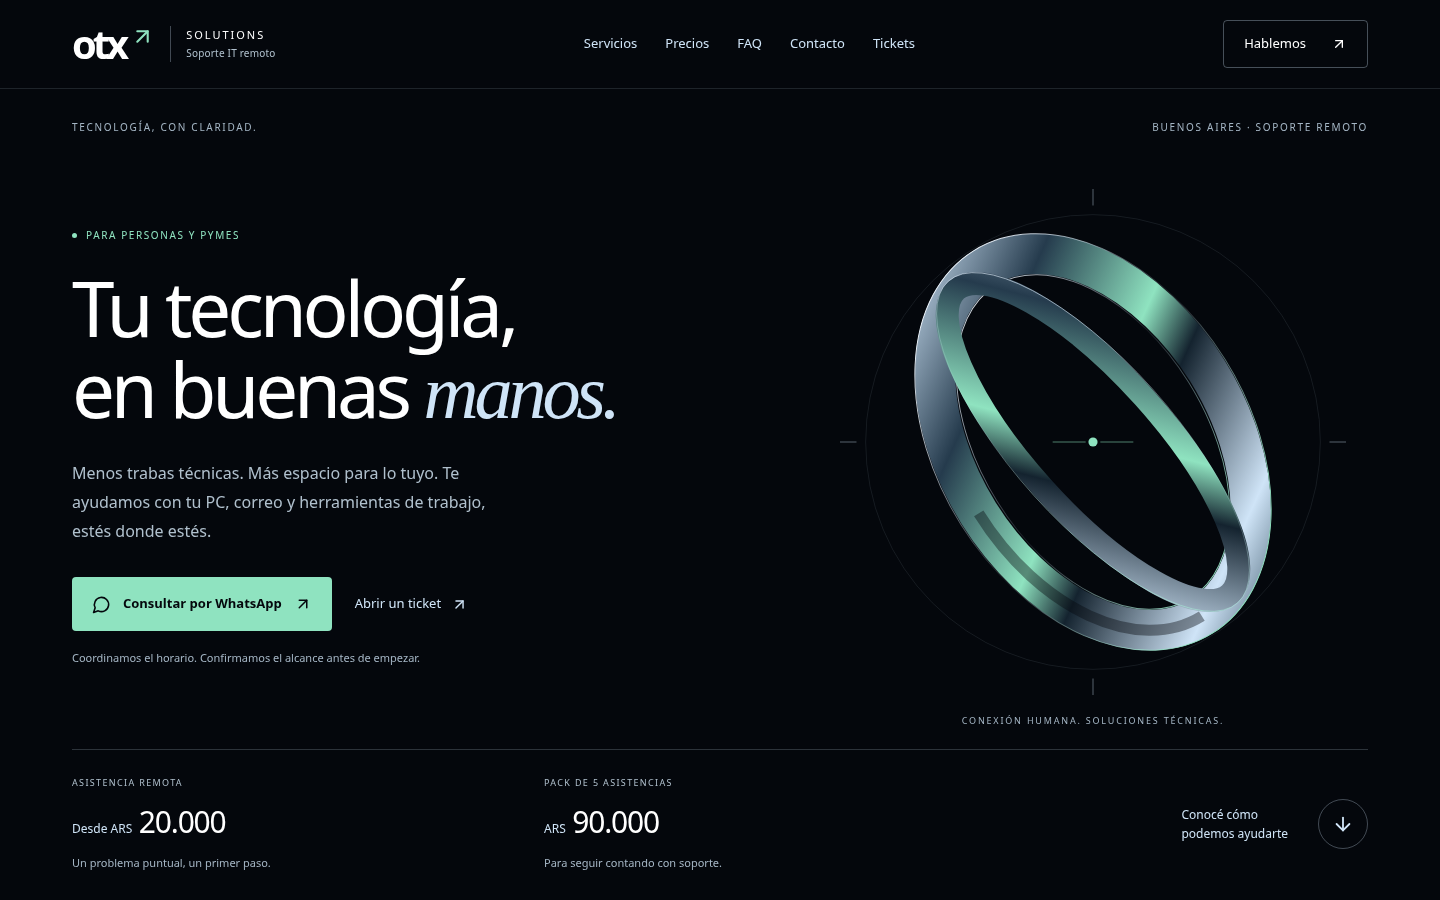
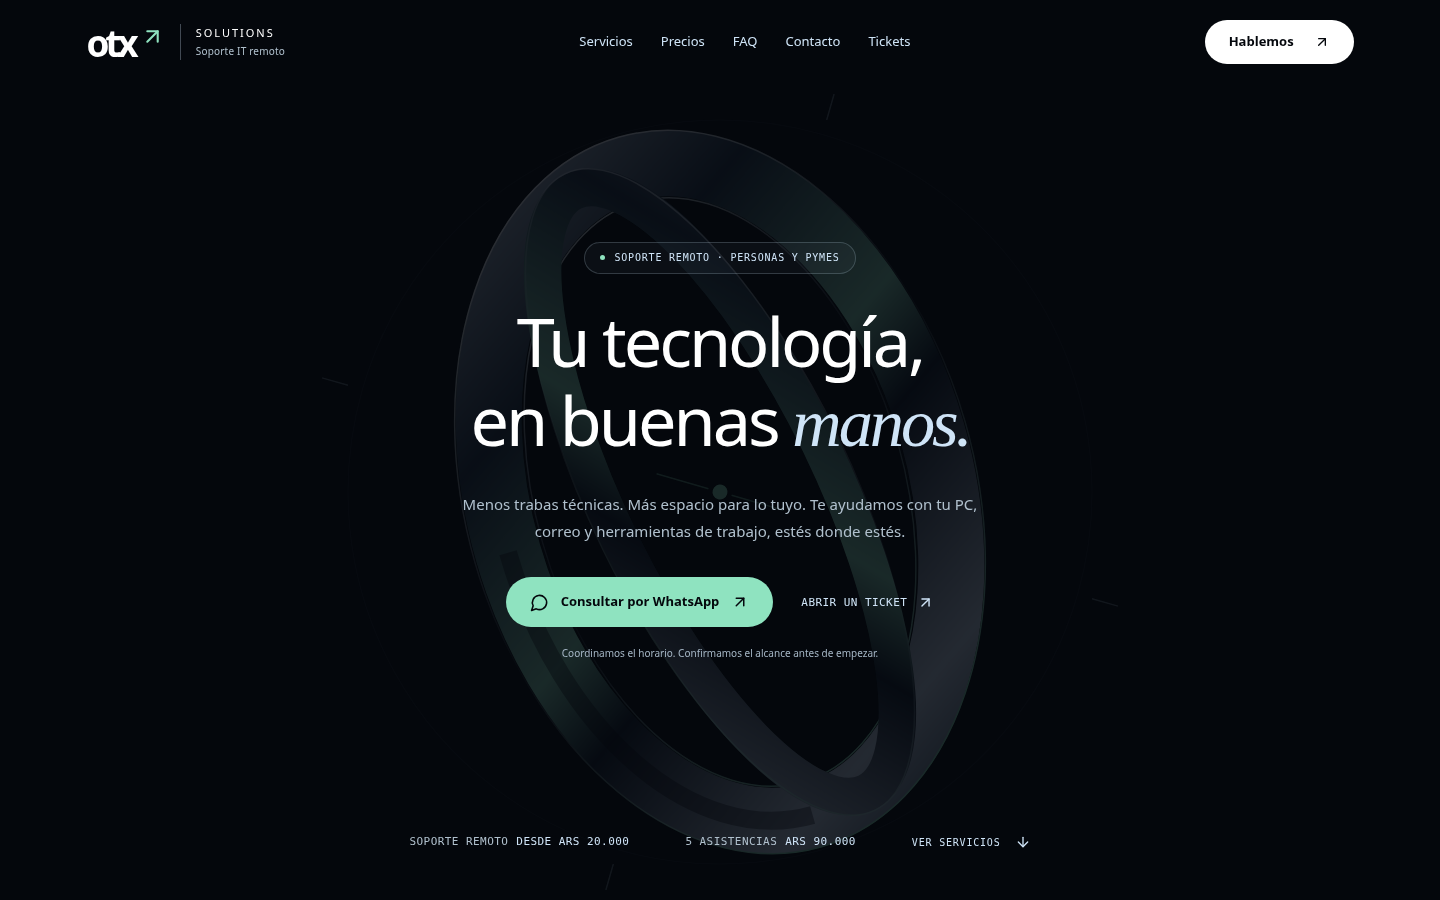
Afinar portada con referencia Obsidian y recursos originales

diff --git a/frontend/src/components/PremiumIntro.css b/frontend/src/components/PremiumIntro.css
@@ -1,21 +1,21 @@
-/* Variant A. Scoped to the header and cover; the rest of the site is unchanged. */
+/* Original OTX cover inspired by editorial hierarchy, not third-party assets. */
 .otx-premium-header, .otx-premium-hero {
   --intro-bg: #04070C; --intro-ice: #CFE4F7; --intro-green: #8FE3C0;
   color: #fff; font-family: 'Inter', system-ui, sans-serif;
   -webkit-font-smoothing: antialiased;
 }
-.otx-premium-header { position: fixed; inset: 0 0 auto; z-index: 50; background: #04070Cf5; border-bottom: 1px solid #cfe4f721; }
-.otx-header-inner { max-width: 1440px; margin: auto; padding: 0 5%; min-height: 88px; display: flex; align-items: center; justify-content: space-between; gap: 30px; }
+.otx-premium-header { position: fixed; inset: 0 0 auto; z-index: 50; background: #04070Cf5; }
+.otx-header-inner { max-width: 1600px; margin: auto; padding: 0 6%; min-height: 84px; display: flex; align-items: center; justify-content: space-between; gap: 30px; }
 .otx-wordmark { display: inline-flex; align-items: center; gap: 15px; flex-shrink: 0; }
-.otx-monogram { font-size: 40px; font-weight: 600; letter-spacing: -4px; line-height: 1; }
+.otx-monogram { font-size: 37px; font-weight: 600; letter-spacing: -4px; line-height: 1; }
 .otx-monogram > svg { display: inline-block; color: var(--intro-green); margin-left: 5px; vertical-align: top; }
 .otx-wordmark-sub { font-size: 11px; letter-spacing: .18em; line-height: 1.6; border-left: 1px solid #cfe4f74d; padding-left: 15px; }
 .otx-wordmark-sub > span { color: #b0c0cd; font-size: 10px; letter-spacing: .02em; }
 .otx-desktop-nav { display: flex; gap: 28px; font-size: 13px; color: var(--intro-ice); }
 .otx-desktop-nav a { padding: 14px 0; }
 .otx-desktop-nav a:hover, .otx-ticket-link:hover { color: var(--intro-green); }
-.otx-header-cta { display: inline-flex; align-items: center; justify-content: center; gap: 25px; border: 1px solid #cfe4f754; border-radius: 4px; padding: 13px 20px; font-size: 13px; }
-.otx-header-cta:hover { background: #cfe4f712; }
+.otx-header-cta { display: inline-flex; align-items: center; justify-content: center; gap: 20px; border-radius: 999px; padding: 12px 24px; min-height: 44px; font-size: 13px; font-weight: 600; background: #fff; color: #04070C; }
+.otx-header-cta:hover { background: var(--intro-ice); }
 .otx-menu-toggle { display: none; min-height: 44px; min-width: 44px; align-items: center; justify-content: center; }
 .otx-mobile-nav { padding: 8px 6% 20px; max-height: calc(100svh - 76px); overflow-y: auto; background: var(--intro-bg); }
 .otx-mobile-nav[hidden] { display: none; }
@@ -23,64 +23,54 @@
 .otx-premium-header :is(a, button):focus-visible, .otx-premium-hero a:focus-visible { outline: 2px solid var(--intro-green); outline-offset: 5px; border-radius: 3px; }
 .otx-skip { position: absolute; left: 20px; top: -100px; padding: 12px 18px; background: #8FE3C0; color: #04070C; z-index: 2; }
 .otx-skip:focus { top: 15px; }
-.otx-premium-hero { background: var(--intro-bg); min-height: 100vh; min-height: 100svh; padding: 120px max(5%, calc((100% - 1296px) / 2)) 28px; display: flex; flex-direction: column; }
-.otx-intro-topline { display: flex; justify-content: space-between; gap: 24px; color: #a5b6c5; letter-spacing: .17em; font-size: 10px; }
-.otx-intro-grid { display: grid; grid-template-columns: 1.2fr 1fr; align-items: center; flex: 1; gap: 12px; padding: 32px 0 20px; }
-.otx-intro-copy { position: relative; z-index: 1; }
-.otx-eyebrow { display: flex; align-items: center; gap: 9px; color: var(--intro-green); font-size: 10px; letter-spacing: .16em; margin-bottom: 24px; }
-.otx-eyebrow > span { width: 5px; height: 5px; border-radius: 50%; background: var(--intro-green); }
-.otx-premium-hero h1 { font-size: clamp(48px, 5.3vw, 78px); line-height: 1.06; font-weight: 400; letter-spacing: -.055em; margin: 0; scroll-margin-top: 110px; }
+.otx-premium-hero { position: relative; isolation: isolate; background: var(--intro-bg); min-height: 100vh; min-height: 100svh; padding: 100px 6% clamp(24px,4svh,40px); display: flex; flex-direction: column; }
+.otx-intro-grid { position: relative; z-index: 1; display: flex; align-items: center; justify-content: center; flex: 1; padding: clamp(28px,5svh,56px) 0; }
+.otx-intro-copy { width: 100%; max-width: 980px; display: flex; flex-direction: column; align-items: center; text-align: center; }
+.otx-eyebrow { display: inline-flex; align-items: center; gap: 9px; color: var(--intro-ice); font: 10px/1.6 ui-monospace, SFMono-Regular, Consolas, monospace; letter-spacing: .08em; margin: 0 0 clamp(20px,3svh,32px); padding: 7px 15px; border: 1px solid #cfe4f733; border-radius: 999px; background: #cfe4f70a; }
+.otx-eyebrow > span { flex-shrink: 0; width: 5px; height: 5px; border-radius: 50%; background: var(--intro-green); }
+.otx-premium-hero h1 { font-size: clamp(32px, min(5.8vw, 7.6svh), 74px); line-height: 1.16; font-weight: 500; letter-spacing: -.045em; margin: 0; scroll-margin-top: 110px; color: #fff; }
 .otx-premium-hero h1 em { font-family: Georgia, 'Times New Roman', serif; color: var(--intro-ice); font-weight: 400; }
-.otx-intro-description { max-width: 430px; margin-top: 25px; color: #b0c0cd; font-size: 16px; line-height: 1.8; }
-.otx-intro-actions { display: flex; align-items: center; flex-wrap: wrap; gap: 23px; margin-top: 32px; font-size: 13px; }
-.otx-primary-link { display: inline-flex; align-items: center; justify-content: center; gap: 12px; background: var(--intro-green); color: #04070C; padding: 17px 20px; min-height: 52px; border-radius: 4px; font-weight: 600; }
+.otx-intro-description { max-width: 550px; margin-top: clamp(20px,3svh,30px); color: #b0c0cd; font-size: 15px; line-height: 1.8; }
+.otx-intro-actions { display: flex; align-items: center; justify-content: center; flex-wrap: wrap; gap: 16px 28px; margin-top: clamp(22px,3.6svh,36px); font-size: 13px; }
+.otx-primary-link { display: inline-flex; align-items: center; justify-content: center; gap: 12px; background: var(--intro-green); color: #04070C; padding: 15px 24px; min-height: 50px; border-radius: 999px; font-weight: 600; }
 .otx-primary-link:hover { background: var(--intro-ice); }
-.otx-ticket-link { display: inline-flex; align-items: center; gap: 10px; min-height: 48px; color: var(--intro-ice); }
-.otx-intro-note { margin-top: 18px; font-size: 11px; color: #a5b6c5; line-height: 1.7; max-width: 430px; }
-.otx-sculpture { position: relative; width: 100%; max-width: 550px; justify-self: end; animation: otx-arrive 1s ease-out both; }
-.otx-sculpture svg { width: 100%; height: auto; display: block; }
-.otx-sculpture-caption { display: block; text-align: center; font: 9px/1.6 system-ui, sans-serif; letter-spacing: .2em; color: #a5b6c5; margin-top: -3px; }
-.otx-intro-bottom { border-top: 1px solid #cfe4f733; display: grid; grid-template-columns: 1fr 1fr .8fr; padding-top: 26px; gap: 32px; }
-.otx-price { display: flex; flex-direction: column; align-items: flex-start; gap: 10px; }
-.otx-price > span:first-child { color: #b0c0cd; font-size: 9px; letter-spacing: .15em; }
-.otx-price strong { font-weight: 400; font-size: 30px; letter-spacing: -.04em; }
-.otx-price small { font-size: 12px; letter-spacing: 0; color: var(--intro-ice); }
-.otx-price > span:last-child { color: #a5b6c5; font-size: 11px; line-height: 1.6; }
+.otx-ticket-link { display: inline-flex; align-items: center; gap: 10px; min-height: 48px; color: var(--intro-ice); font: 11px ui-monospace, SFMono-Regular, Consolas, monospace; text-transform: uppercase; letter-spacing: .04em; }
+.otx-intro-note { margin-top: 18px; font-size: 10px; color: #a5b6c5; line-height: 1.7; max-width: 430px; }
+.otx-sculpture { position: absolute; z-index: 0; inset: 84px 0 0; display: flex; align-items: center; justify-content: center; overflow: hidden; pointer-events: none; opacity: .16; animation: otx-arrive .9s ease-out both; }
+.otx-sculpture svg { width: min(900px,100%); height: auto; flex-shrink: 0; transform: rotate(16deg); }
+.otx-sculpture-caption { display: none; }
+.otx-intro-bottom { position: relative; z-index: 1; display: flex; flex-wrap: wrap; justify-content: center; align-items: center; gap: 12px clamp(24px,4vw,56px); padding-top: 16px; }
+.otx-price { display: inline-flex; align-items: center; flex-wrap: wrap; justify-content: center; gap: 8px; min-height: 44px; font: 11px/1.7 ui-monospace, SFMono-Regular, Consolas, monospace; text-transform: uppercase; letter-spacing: .04em; color: #b0c0cd; }
+.otx-price strong { color: var(--intro-ice); font-weight: 400; }
 .otx-price:hover strong { color: var(--intro-green); }
-.otx-explore { justify-self: end; align-self: center; display: flex; align-items: center; gap: 30px; color: var(--intro-ice); font-size: 12px; line-height: 1.6; min-height: 48px; }
-.otx-explore svg { box-sizing: content-box; border: 1px solid #cfe4f74d; padding: 13px; border-radius: 50%; }
-@keyframes otx-arrive { from { opacity: 0; transform: translateY(12px); } to { opacity: 1; transform: translateY(0); } }
-@media (min-width: 1600px) { .otx-intro-grid { flex-grow: 0; margin: auto 0; } }
-@media (max-width: 1023px) {
+.otx-explore { display: inline-flex; align-items: center; gap: 14px; min-height: 44px; color: var(--intro-ice); font: 10px ui-monospace, SFMono-Regular, Consolas, monospace; text-transform: uppercase; letter-spacing: .08em; }
+.otx-explore svg { width: 16px; height: 16px; }
+@keyframes otx-arrive { from { opacity: 0; } to { opacity: .16; } }
+@media (max-width: 1149px) {
   .otx-header-inner { min-height: 76px; gap: 16px; }
   .otx-desktop-nav, .otx-header-cta { display: none; }
   .otx-menu-toggle { display: inline-flex; }
-  .otx-premium-hero { padding-top: 104px; }
-  .otx-intro-grid { grid-template-columns: 1.3fr 1fr; }
-  .otx-premium-hero h1 { font-size: clamp(44px, 6vw, 64px); }
-  .otx-intro-bottom { grid-template-columns: 1fr 1fr; }
-  .otx-explore { display: none; }
+  .otx-premium-hero { padding-top: 92px; }
 }
 @media (max-width: 640px) {
-  .otx-header-inner { padding-inline: 6%; }
   .otx-monogram { font-size: 35px; }
-  .otx-premium-hero { padding: 104px 6% 30px; }
-  .otx-intro-topline { font-size: 8px; }
-  .otx-intro-topline > span:last-child { display: none; }
-  .otx-intro-grid { grid-template-columns: 1fr; padding-top: 34px; gap: 0; }
-  .otx-eyebrow { font-size: 9px; margin-bottom: 21px; }
-  .otx-premium-hero h1 { font-size: clamp(40px, 10.4vw, 64px); }
-  .otx-intro-description { font-size: 14px; line-height: 1.8; margin-top: 22px; }
-  .otx-intro-actions { gap: 10px 22px; margin-top: 24px; }
-  .otx-primary-link { padding-inline: 16px; }
-  .otx-intro-note { font-size: 10px; }
-  .otx-sculpture { display: none; }
-  .otx-sculpture-caption { font-size: 7px; }
-  .otx-intro-bottom { gap: 20px; padding-top: 24px; }
-  .otx-price strong { font-size: 27px; }
-  .otx-price > span:first-child { font-size: 8px; line-height: 1.6; }
-  .otx-price > span:last-child { font-size: 10px; }
-  .otx-price small { display: block; margin-bottom: 4px; font-size: 11px; }
+  .otx-premium-hero { padding-inline: 6%; }
+  .otx-intro-grid { padding: 30px 0; }
+  .otx-eyebrow { font-size: 9px; padding: 7px 10px; letter-spacing: .02em; }
+  .otx-premium-hero h1 { font-size: clamp(32px,8.5vw,48px); }
+  .otx-intro-description { font-size: 14px; line-height: 1.75; }
+  .otx-intro-actions { flex-direction: column; gap: 8px; }
+  .otx-primary-link { padding-inline: 20px; }
+  .otx-intro-note, .otx-explore { display: none; }
+  .otx-intro-bottom { flex-direction: column; gap: 0; }
+  .otx-price { font-size: 10px; min-height: 36px; }
+  .otx-sculpture { opacity: .12; animation: none; }
+}
+@media (max-height: 720px) {
+  .otx-intro-grid { padding-block: 20px; }
+  .otx-eyebrow { margin-bottom: 16px; }
+  .otx-intro-description, .otx-intro-actions { margin-top: 18px; }
+  .otx-intro-note { margin-top: 12px; }
 }
 @media (prefers-reduced-motion: reduce) {
   html { scroll-behavior: auto; }

diff --git a/frontend/src/components/Hero.jsx b/frontend/src/components/Hero.jsx
@@ -40,10 +40,10 @@ const Hero = () => {
   const whatsappUrl = `https://wa.me/${companyInfo.whatsapp}?text=${whatsappMessage}`;
   return (
     <section className="otx-premium-hero" aria-labelledby="intro-title">
-      <div className="otx-intro-topline"><span>TECNOLOGÍA, CON CLARIDAD.</span><span>BUENOS AIRES · SOPORTE REMOTO</span></div>
+      <ConnectionSculpture />
       <div className="otx-intro-grid">
         <div className="otx-intro-copy">
-          <p className="otx-eyebrow"><span aria-hidden="true" /> PARA PERSONAS Y PYMES</p>
+          <p className="otx-eyebrow"><span aria-hidden="true" /> SOPORTE REMOTO · PERSONAS Y PYMES</p>
           <h1 id="intro-title" tabIndex={-1}>Tu tecnología,<br />en buenas <em>manos.</em></h1>
           <p className="otx-intro-description">Menos trabas técnicas. Más espacio para lo tuyo. Te ayudamos con tu PC, correo y herramientas de trabajo, estés donde estés.</p>
           <div className="otx-intro-actions">
@@ -55,12 +55,11 @@ const Hero = () => {
           </div>
           <p className="otx-intro-note">Coordinamos el horario. Confirmamos el alcance antes de empezar.</p>
         </div>
-        <ConnectionSculpture />
       </div>
       <div className="otx-intro-bottom">
-        <a className="otx-price" href="#planes"><span>ASISTENCIA REMOTA</span><strong><small>Desde ARS</small> 20.000</strong><span>Un problema puntual, un primer paso.</span></a>
-        <a className="otx-price" href="#planes"><span>PACK DE 5 ASISTENCIAS</span><strong><small>ARS</small> 90.000</strong><span>Para seguir contando con soporte.</span></a>
-        <a className="otx-explore" href="#servicios"><span>Conocé cómo<br />podemos ayudarte</span><ArrowDown size={22} aria-hidden="true" /></a>
+        <a className="otx-price" href="#planes"><span>Soporte remoto</span><strong>Desde ARS 20.000</strong></a>
+        <a className="otx-price" href="#planes"><span>5 asistencias</span><strong>ARS 90.000</strong></a>
+        <a className="otx-explore" href="#servicios"><span>Ver servicios</span><ArrowDown size={22} aria-hidden="true" /></a>
       </div>
     </section>
   );

diff --git a/frontend/src/components/Header.jsx b/frontend/src/components/Header.jsx
@@ -25,7 +25,7 @@ const Header = () => {
     const onOutside = (event) => {
       if (!header.current?.contains(event.target)) setOpen(false);
     };
-    const desktop = window.matchMedia('(min-width: 1024px)');
+    const desktop = window.matchMedia('(min-width: 1150px)');
     const onResize = () => { if (desktop.matches) setOpen(false); };
     document.addEventListener('keydown', onKey);
     document.addEventListener('pointerdown', onOutside);
